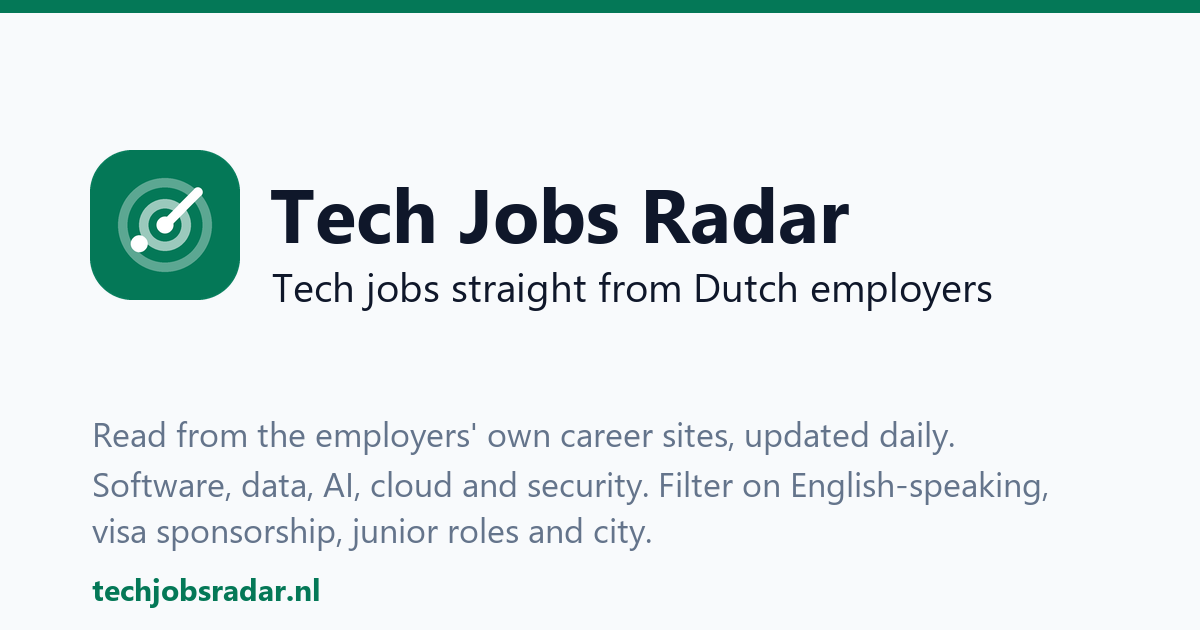
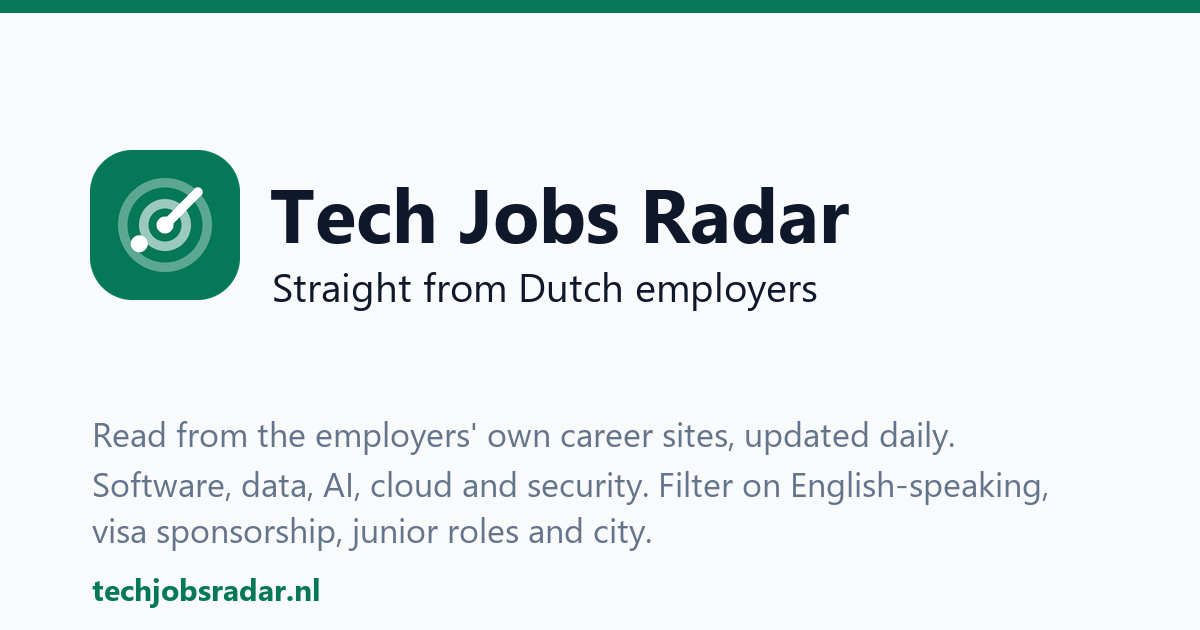
Brand line 'Straight from Dutch employers' (the name already says tech jobs); the home page heading names tech jobs in the Netherlands for screen readers and search

Changed region(s): [[0.2158, 0.4222, 0.8325, 0.4825]]

diff --git a/web/index.html b/web/index.html
@@ -31,7 +31,7 @@
 <div class="progress" id="progress" hidden></div>
 <header class="top">
   <div class="wrap topbar">
-    <a class="brand" href="{{HOME_PATH}}" id="brand" title="{{SITE_NAME}}"><svg class="logo" viewBox="0 0 32 32" aria-hidden="true"><rect width="32" height="32" rx="9" fill="var(--accent)"/><g fill="none" stroke="var(--on-accent)" stroke-width="2" stroke-linecap="round"><circle cx="16" cy="16" r="10" opacity=".35"/><circle cx="16" cy="16" r="5.5" opacity=".6"/><path d="M16 16l7-7"/></g><circle cx="16" cy="16" r="1.8" fill="var(--on-accent)"/><circle cx="10.5" cy="20" r="1.8" fill="var(--on-accent)"/></svg><h1>{{SITE_NAME}}</h1></a>
+    <a class="brand" href="{{HOME_PATH}}" id="brand" title="{{SITE_NAME}}"><svg class="logo" viewBox="0 0 32 32" aria-hidden="true"><rect width="32" height="32" rx="9" fill="var(--accent)"/><g fill="none" stroke="var(--on-accent)" stroke-width="2" stroke-linecap="round"><circle cx="16" cy="16" r="10" opacity=".35"/><circle cx="16" cy="16" r="5.5" opacity=".6"/><path d="M16 16l7-7"/></g><circle cx="16" cy="16" r="1.8" fill="var(--on-accent)"/><circle cx="10.5" cy="20" r="1.8" fill="var(--on-accent)"/></svg><h1>{{SITE_NAME}}<span class="sr-only">{{H1_SUFFIX}}</span></h1></a>
     <div class="topbar-right">
       <button class="refresh-btn" id="fresh-btn" disabled data-i18n-title="fresh.none" title="No new listings yet"><svg width="15" height="15" viewBox="0 0 24 24" fill="none" stroke="currentColor" stroke-width="2.2" stroke-linecap="round" stroke-linejoin="round" aria-hidden="true"><path d="M21 12a9 9 0 1 1-2.64-6.36"/><path d="M21 3v6h-6"/></svg><span data-i18n="fresh.reload">Refresh</span></button>
       <div class="langswitch" id="langswitch"><button data-lang="nl">NL</button><button data-lang="en">EN</button></div>
@@ -284,6 +284,6 @@
   <p class="mt-6 border-t border-line pt-6"><a href="{{PRIVACY_PATH}}" data-i18n="privacy">Privacy</a> · <a href="{{FEEDBACK_PATH}}" data-i18n="feedback">Feedback</a>{{SOURCE_LINK}}</p>
  </div>
 </footer>
-<script src="/static/app.js?v=79"></script>
+<script src="/static/app.js?v=80"></script>
 </body>
 </html>

diff --git a/web/app.js b/web/app.js
@@ -49,7 +49,7 @@
      
       // dynamic strings
       "kpi.live": "live tech postings", "kpi.employers": "employers", "kpi.crawl": "last crawl",
-      "title": "Tech jobs straight from Dutch employers",
+      "title": "Straight from Dutch employers",
      
       
      
@@ -156,7 +156,7 @@
      
      
       "kpi.live": "open techvacatures", "kpi.employers": "werkgevers", "kpi.crawl": "laatste crawl",
-      "title": "Techvacatures rechtstreeks van Nederlandse werkgevers",
+      "title": "Rechtstreeks van Nederlandse werkgevers",
      
       
      

diff --git a/radar/config.py b/radar/config.py
@@ -32,8 +32,8 @@ class Settings(BaseSettings):
     # Google Search Console verification token (the content of its <meta name="google-site-verification">)
     google_site_verification: str | None = None
     # the brand line: page titles, search snippets and the share card (no counts, nothing that dates)
-    site_slogan: str = "Tech jobs straight from Dutch employers"
-    site_slogan_nl: str = "Techvacatures rechtstreeks van Nederlandse werkgevers"
+    site_slogan: str = "Straight from Dutch employers"  # the name already says "tech jobs"
+    site_slogan_nl: str = "Rechtstreeks van Nederlandse werkgevers"
     site_tagline: str = ("Tech jobs from Dutch employers' own career sites, with the skills, language and visa "
                          "details of every listing.")
     # The crawler names itself, with a page explaining it and a contact address; robots.txt rules for

diff --git a/tests/test_crawler_and_api.py b/tests/test_crawler_and_api.py
@@ -330,7 +330,7 @@ def test_search_landing_pages_bilingual_and_in_sitemap(fresh_db):
     assert client.get("/jobs/english-speaking").status_code == 200
     assert client.get("/jobs/tech-groningen").status_code == 404  # no postings there: no thin page
     home_nl = client.get("/nl/").text
-    assert 'lang="nl"' in home_nl and "Techvacatures rechtstreeks van Nederlandse werkgevers" in home_nl and "/vacatures/ict-amsterdam" in home_nl
+    assert 'lang="nl"' in home_nl and "Rechtstreeks van Nederlandse werkgevers" in home_nl and "/vacatures/ict-amsterdam" in home_nl
     sm = client.get("/sitemap.xml").text
     assert "/vacatures/ict-amsterdam</loc>" in sm and "/jobs/english-speaking</loc>" in sm and "/nl/</loc>" in sm
 

diff --git a/scripts/brand_assets.py b/scripts/brand_assets.py
@@ -57,7 +57,7 @@ def card() -> Image.Image:
     d.rectangle((0, 0, 1200, 12), fill=ACCENT)
     img.paste(logo(150), (90, 150), logo(150))
     d.text((270, 160), "Tech Jobs Radar", font=font(True, 76), fill=INK)
-    d.text((272, 258), "Tech jobs straight from Dutch employers", font=font(False, 40), fill=INK)
+    d.text((272, 258), "Straight from Dutch employers", font=font(False, 40), fill=INK)
     d.text((92, 410), "Read from the employers' own career sites, updated daily.", font=font(False, 34), fill=MUTED)
     d.text((92, 460), "Software, data, AI, cloud and security. Filter on English-speaking,", font=font(False, 34),
            fill=MUTED)

diff --git a/radar/api.py b/radar/api.py
@@ -646,6 +646,7 @@ def _render_index(session: Session | None = None, lang: str = "en") -> str:
                 .replace("{{SITE_JSONLD}}", _json.dumps(ld))
                 .replace("{{HTML_LANG}}", lang)
                 .replace("{{HOME_PATH}}", "/nl/" if lang == "nl" else "/")
+                .replace("{{H1_SUFFIX}}", ": techvacatures in Nederland" if lang == "nl" else ": tech jobs in the Netherlands")
                 .replace("{{PAGE_TITLE}}", title)
                 .replace("{{META_DESCRIPTION}}", desc)
                 .replace("{{VERIFY}}", seo.verification_meta())
